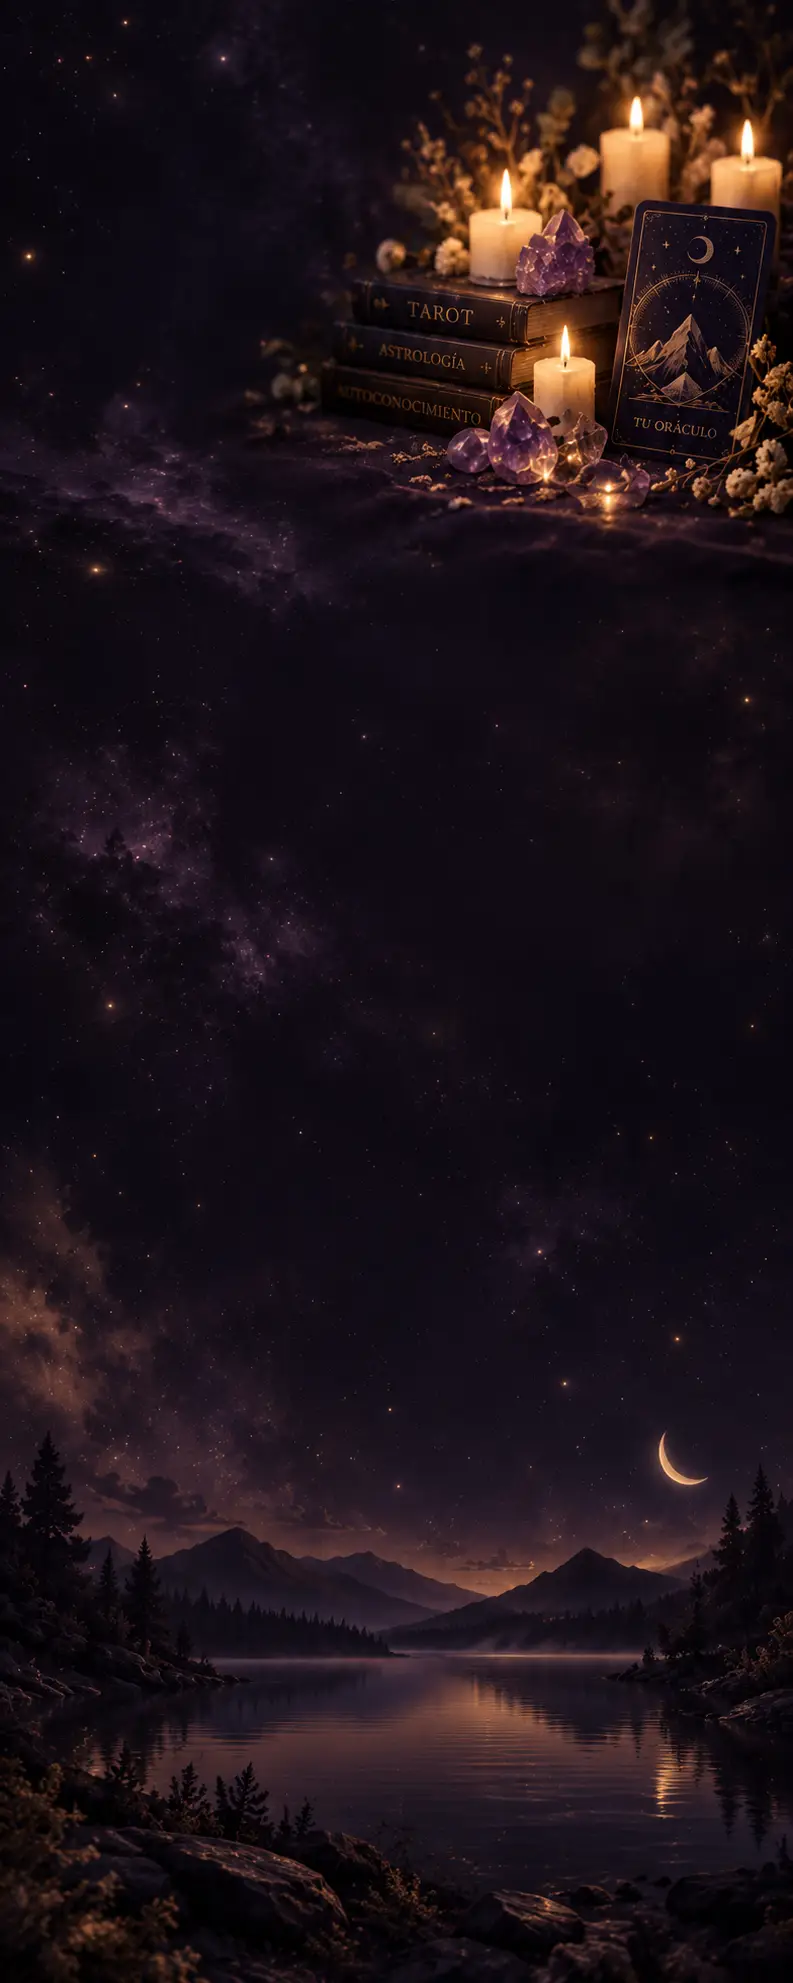
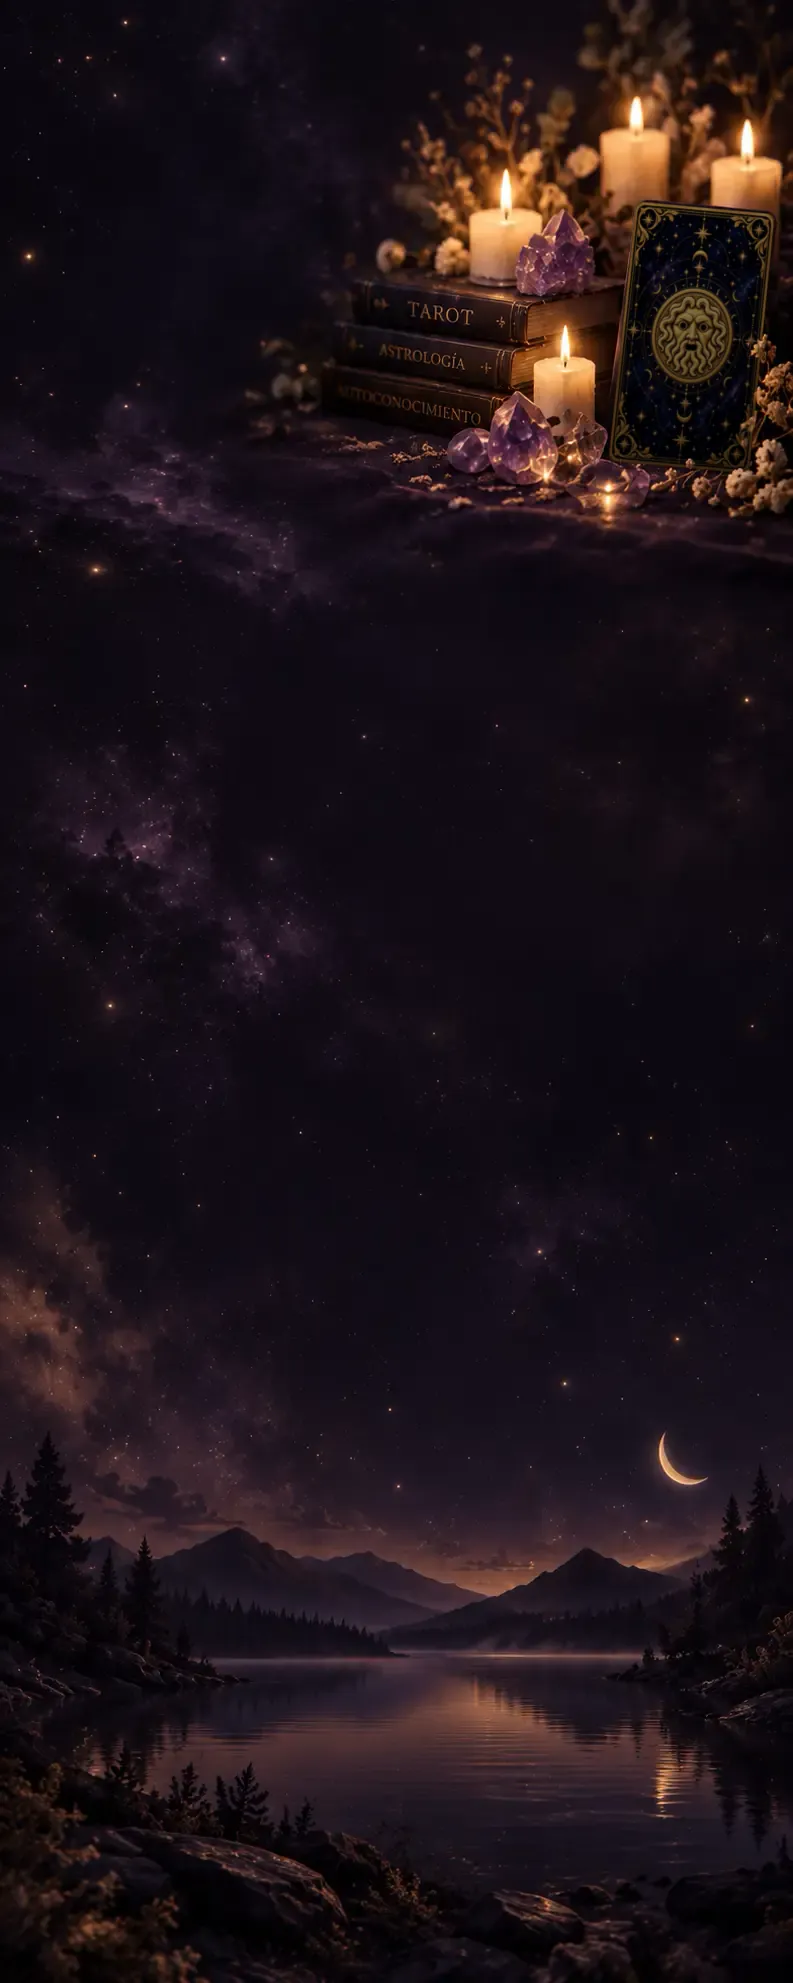
Home: dorso de la marca en las cartas y botones de catálogo
- Fondo de la portada (escritorio y móvil), Producto destacado y card
  Tarot de "Experiencias": las cartas genéricas ahora muestran el dorso
  propio de Tu Oráculo (rostro dorado).
- Card Tarot de Experiencias: "Quiero mi tirada" → "Más información",
  lleva a /tarot (antes iba directo al checkout).
- Producto destacado: el botón "Quiero mi tirada →" ya no corta la
  flecha en dos líneas y suma un link discreto "Más información" a /tarot.

Changed region(s): [[0.7566, 0.0923, 0.9685, 0.2461]]

diff --git a/components/home/ProductoDestacado.tsx b/components/home/ProductoDestacado.tsx
@@ -1,5 +1,6 @@
 "use client";
 
+import Link from "next/link";
 import { usePrecioTarot } from "@/lib/usePrecioTarot";
 import { GOLD } from "./theme";
 import { CtaButton } from "./CtaButton";
@@ -115,9 +116,15 @@ export function ProductoDestacado() {
             {precioTarot !== null ? `$U ${precioTarot}` : "Ver precio"}
           </p>
           <p className="text-[11px] text-white/40 mb-8">pago único</p>
-          <CtaButton href="/tarot/checkout" className="px-6 py-3 text-sm mb-9 w-full text-center md:w-auto">
+          <CtaButton href="/tarot/checkout" className="px-6 py-3 text-sm mb-3 w-full text-center md:w-auto whitespace-nowrap">
             Quiero mi tirada →
           </CtaButton>
+          <Link
+            href="/tarot"
+            className="text-[12px] text-white/55 hover:text-white underline underline-offset-4 decoration-white/25 mb-9 self-center md:self-start"
+          >
+            Más información
+          </Link>
           <div className="space-y-4">
             {MINI_BULLETS.map(({ label, icon }) => (
               <div key={label} className="flex items-center gap-2.5 text-[12px] text-white/55">

diff --git a/components/home/BloqueExperiencias.tsx b/components/home/BloqueExperiencias.tsx
@@ -41,8 +41,10 @@ function CardTarot() {
           <span className="text-sm font-bold" style={{ color: GOLD }}>
             {precioTarot !== null ? `$U ${precioTarot}` : "Ver precio"}
           </span>
-          <CtaButton href="/tarot/checkout" className="px-4 py-2 text-[12px]">
-            Quiero mi tirada →
+          {/* Card de catálogo: lleva a conocer el producto (/tarot), no
+              directo a pagar — misma idea que el "Más información" de Meta */}
+          <CtaButton href="/tarot" className="px-4 py-2 text-[12px] whitespace-nowrap">
+            Más información →
           </CtaButton>
         </div>
       </div>
